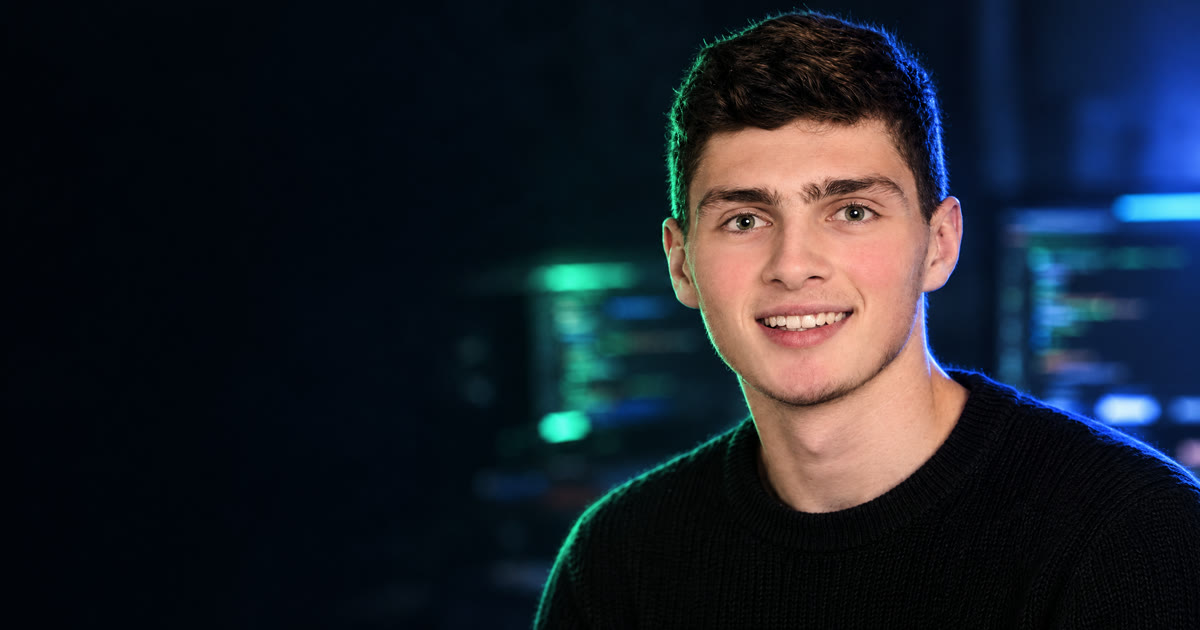
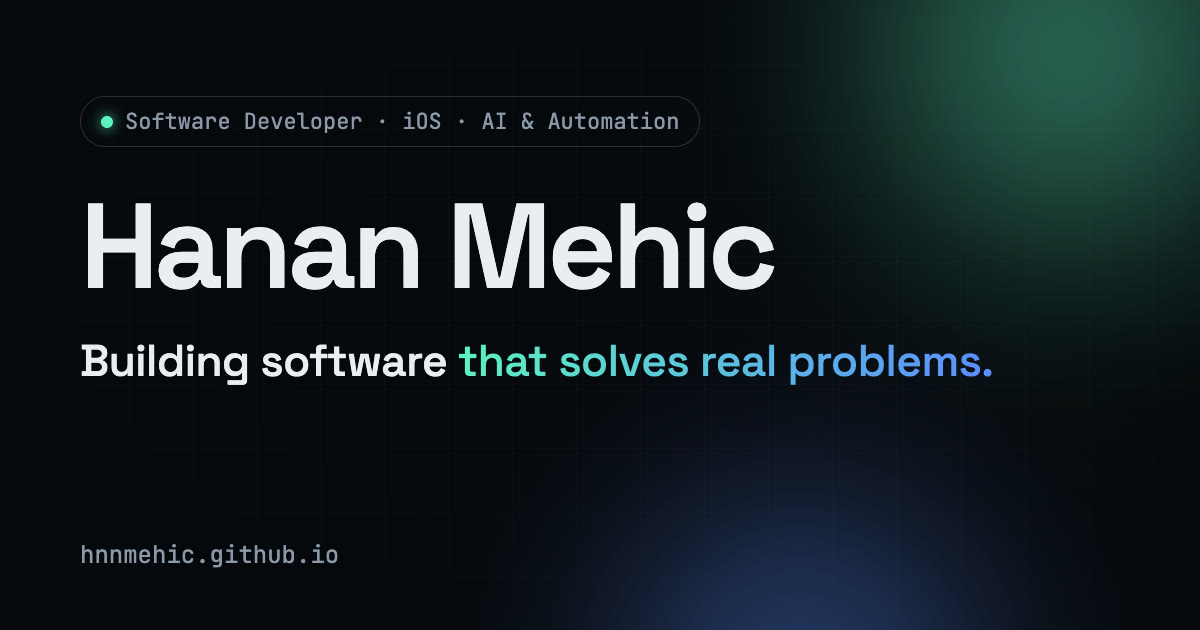
feat: Foto aus Hero und Vorschaubild entfernt, abstrakter Hintergrund

diff --git a/src/site.config.ts b/src/site.config.ts
@@ -9,9 +9,9 @@ export const site = {
     github: 'https://github.com/hnnmehic',
   },
   hero: {
-    // Video ist optional: fehlt es, zeigt der Hero nur das Poster-Bild.
+    // Optional: Hintergrundbild oder -video. Leer = abstrakter Farbverlauf.
     video: { mp4: '', webm: '' },
-    poster: '/media/hero-poster.webp',
+    poster: '',
   },
   ogImage: '/media/og.jpg',
 } as const;

diff --git a/README.md b/README.md
@@ -42,9 +42,9 @@ description:
 ---
 ```
 
-### Hero-Video aktivieren
+### Hero-Hintergrund
 
-Video als `public/media/hero.mp4` (optional `hero.webm`) ablegen und in `src/site.config.ts` unter `hero.video` eintragen. Ohne Video wird `hero-poster.webp` angezeigt.
+Standard ist ein abstrakter, animierter Farbverlauf. Optional ein Bild (`hero.poster`) oder Video (`hero.video`) in `src/site.config.ts` eintragen und die Datei unter `public/media/` ablegen.
 
 ## Deploy
 
